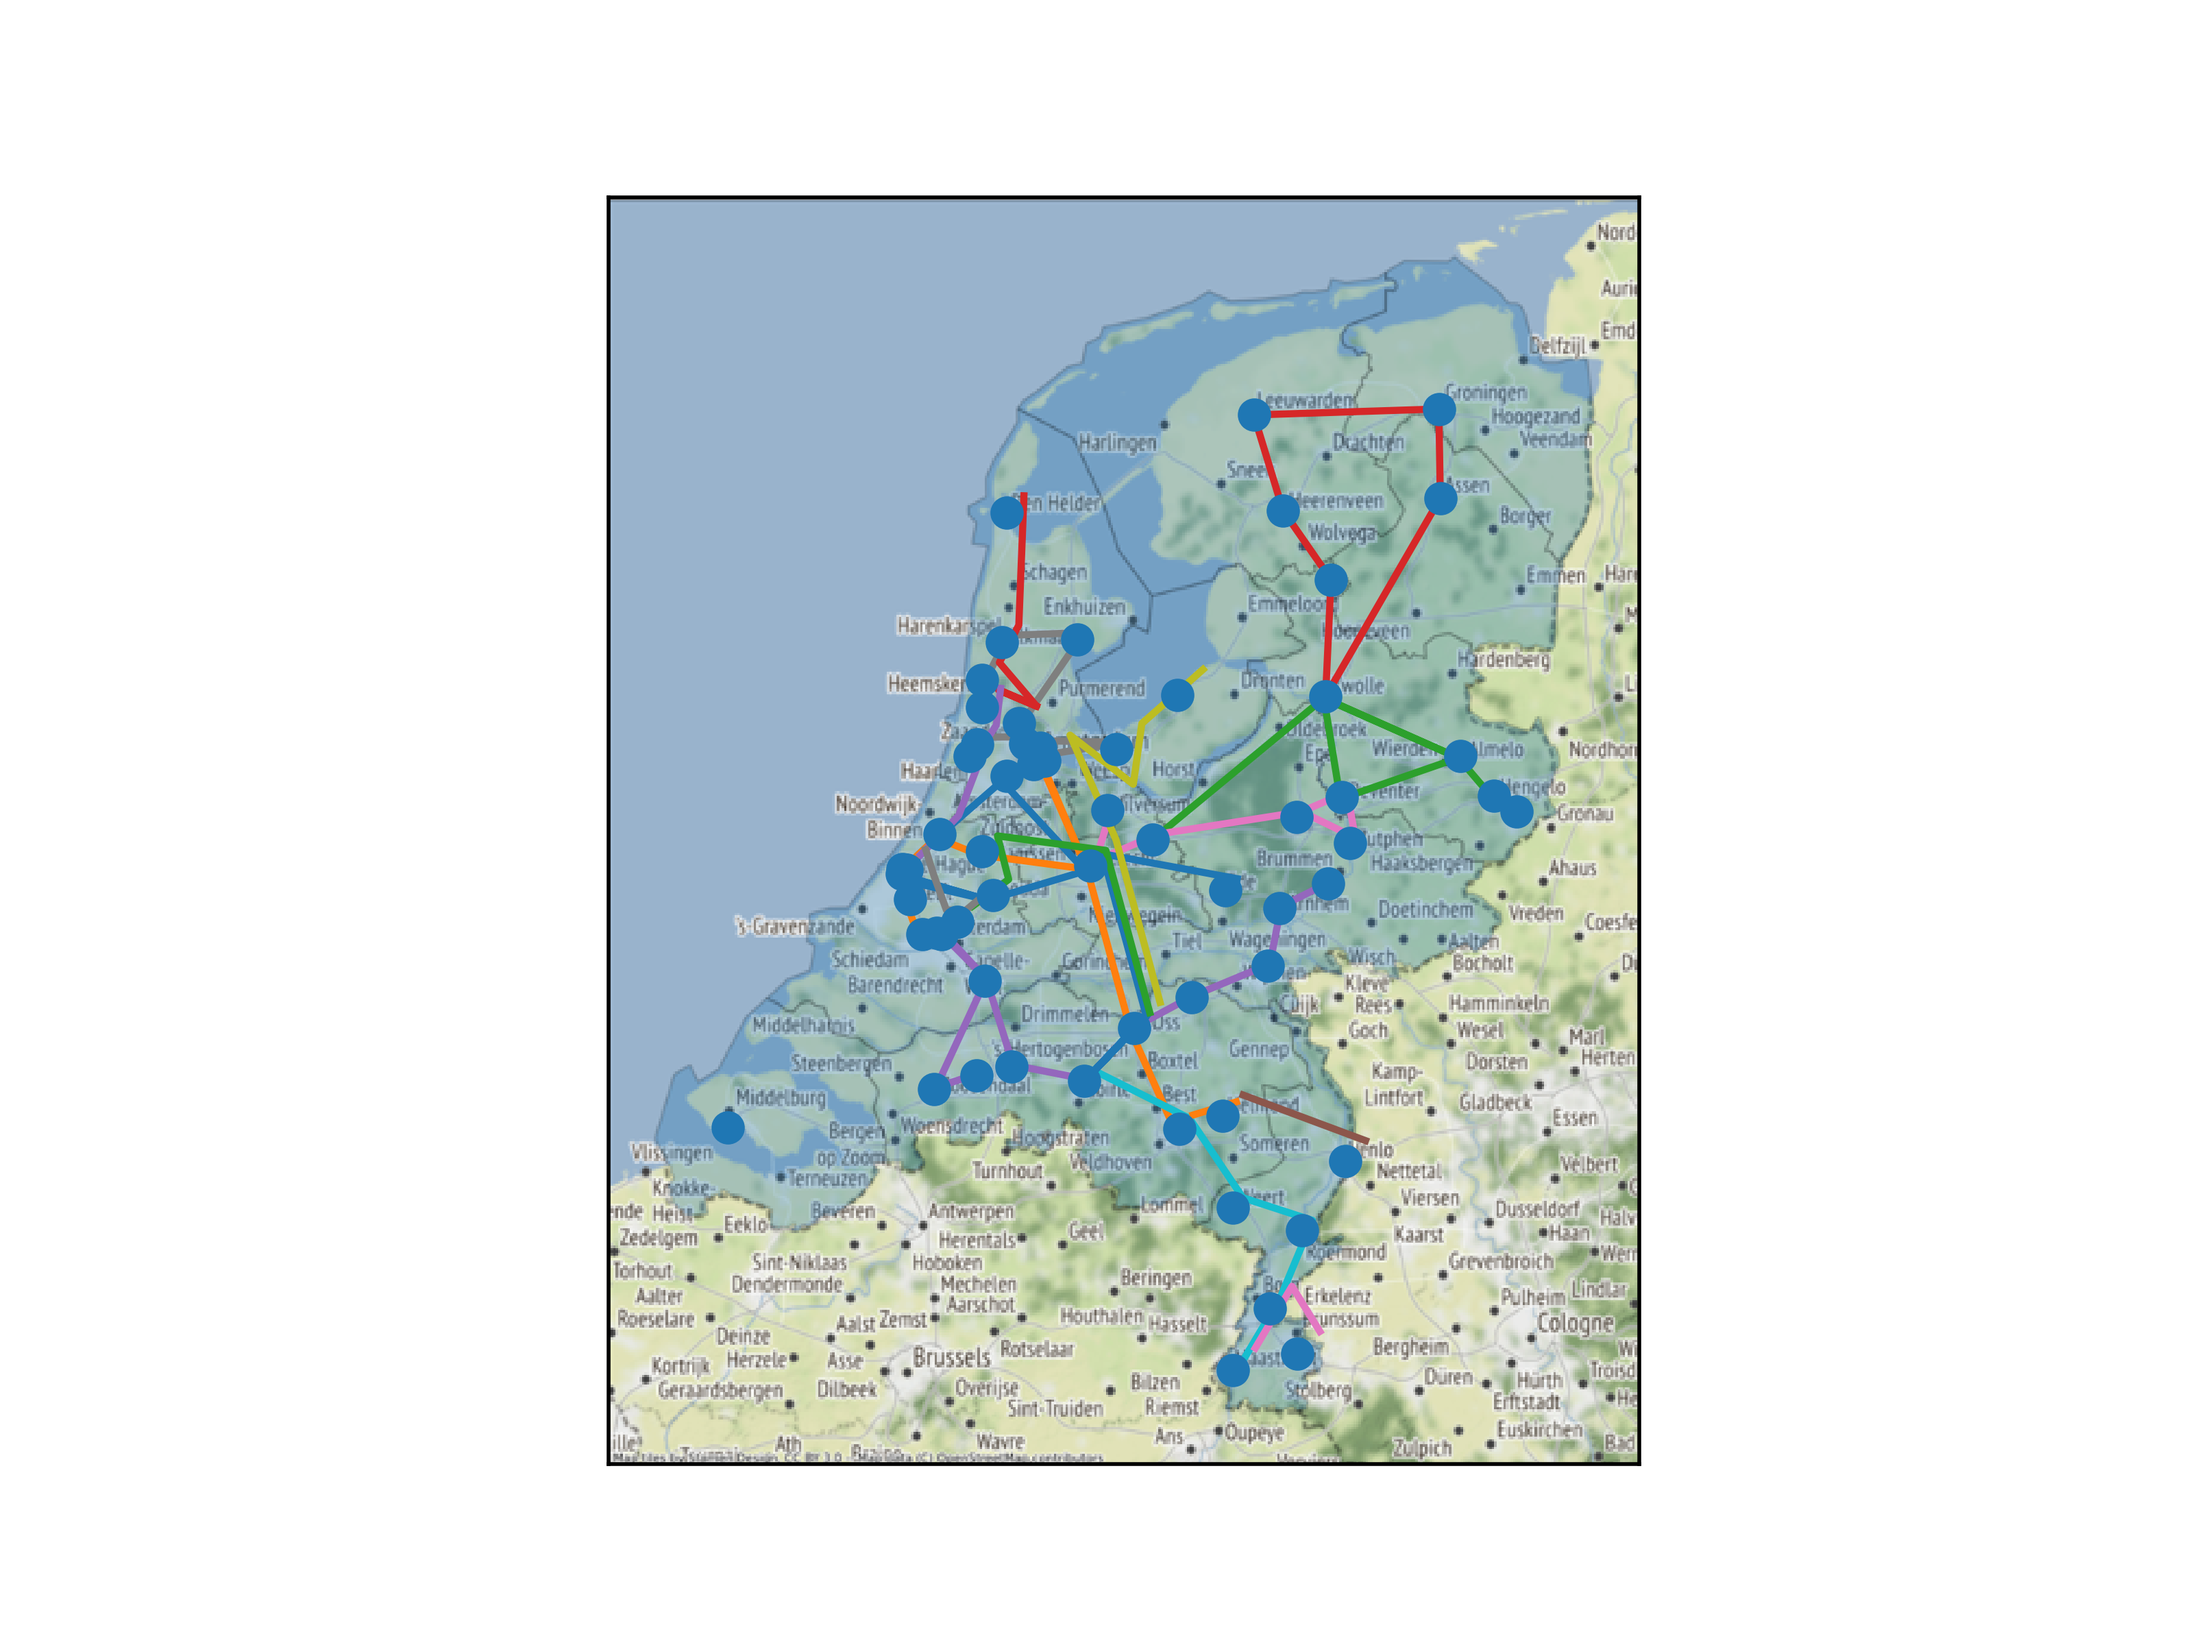
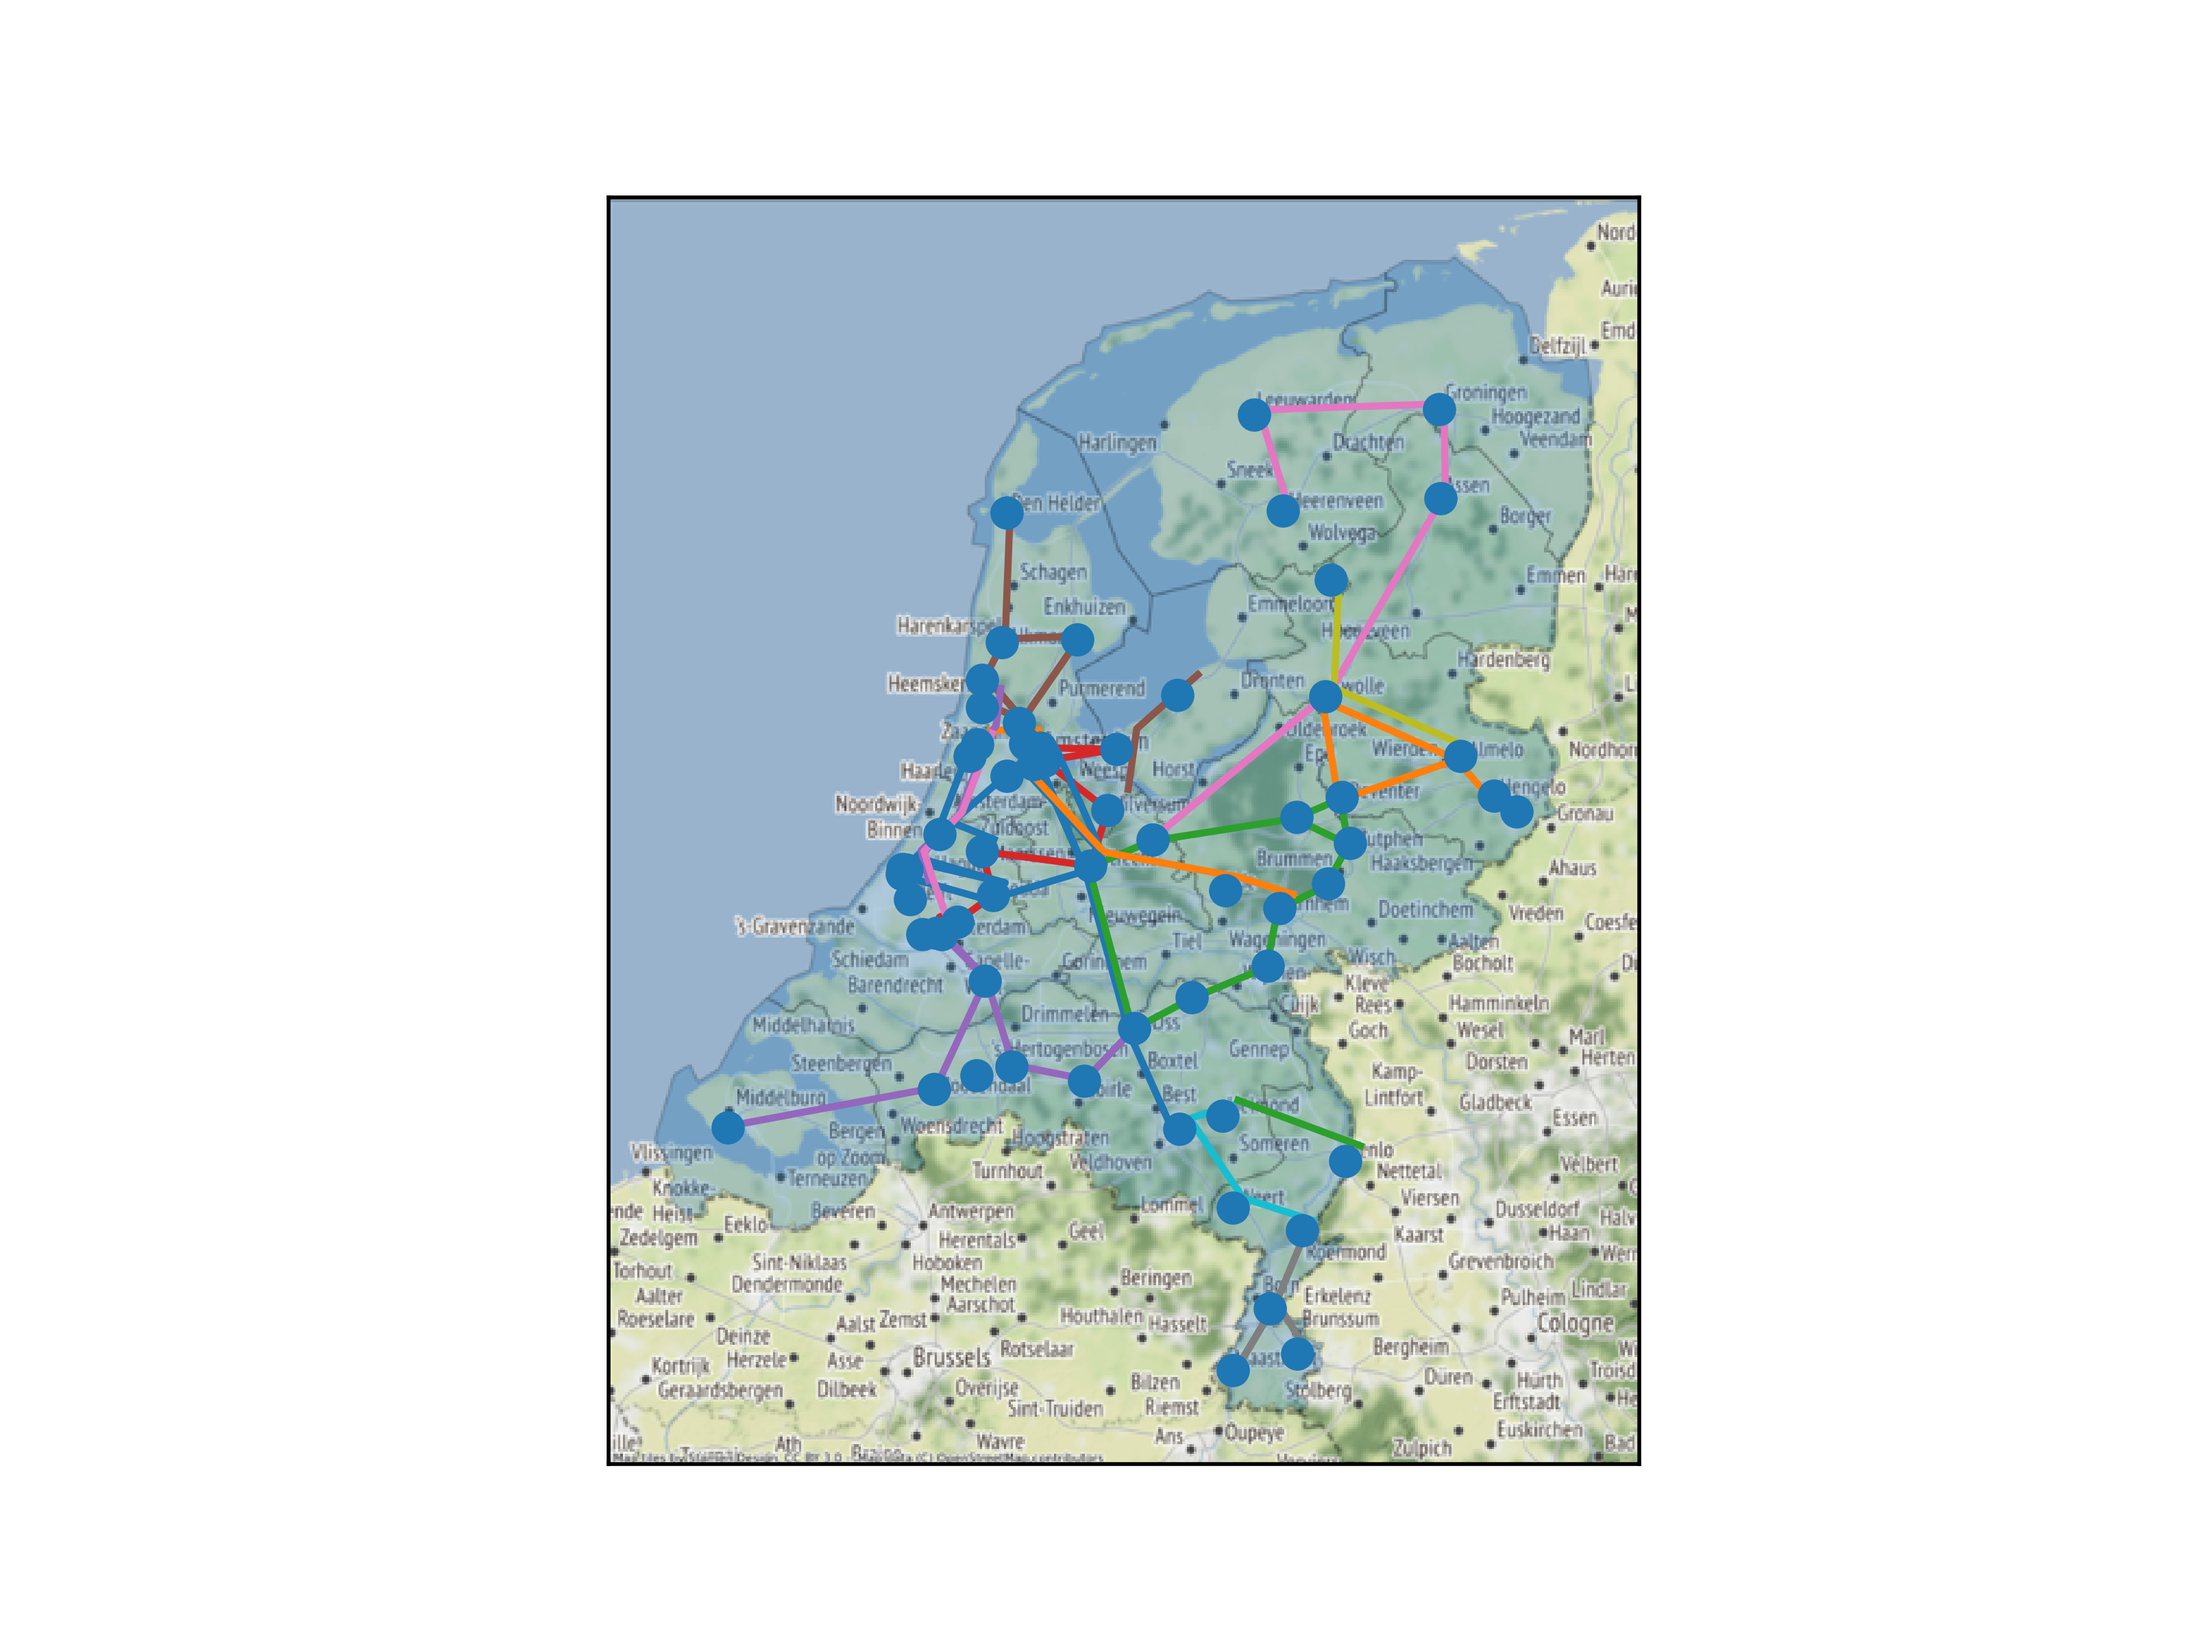
removed redundant code in visualise()

diff --git a/program/analysis_visualisation/visualisation.py b/program/analysis_visualisation/visualisation.py
@@ -5,7 +5,7 @@ from typing import List
 
 import matplotlib.transforms as mtrans # type: ignore
 
-def visualize(network, trains, which_region = 'holland') -> None:
+def visualize(network, which_region = 'holland') -> None:
 
     # check if wanted map is of holland of nl and change save option
     if which_region == 'nl':
@@ -54,17 +54,15 @@ def visualize(network, trains, which_region = 'holland') -> None:
 
     # PLOT TRAJECTORIES
     # loop through all the trajectories
-    
-    for i, traj in enumerate(trains):
+    for i, traj in enumerate(network.trajectories):
         # initiate empty lists for the coordinates
         x_traj: List[float] = []
         y_traj: List[float] = []
 
         # loop through the trajectory
-        for station_name in traj:
+        for station in traj.object_traj:
             # save coordinates of every station in the trajectory
-            station_node = network.stations[station_name]
-            station_coords = station_node.coord
+            station_coords = station.coord
             x_traj.append(station_coords[0])
             y_traj.append(station_coords[1])
         # plot the trajectory
